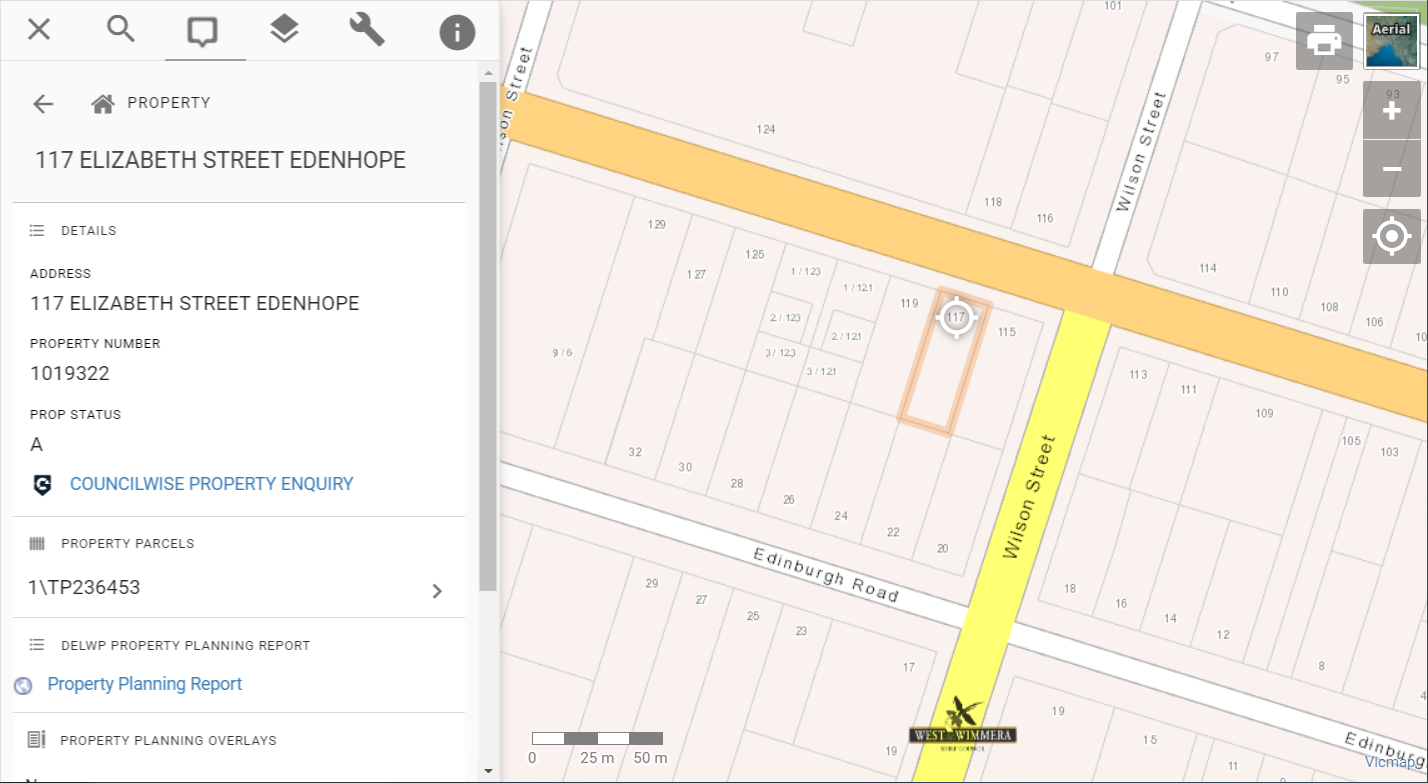
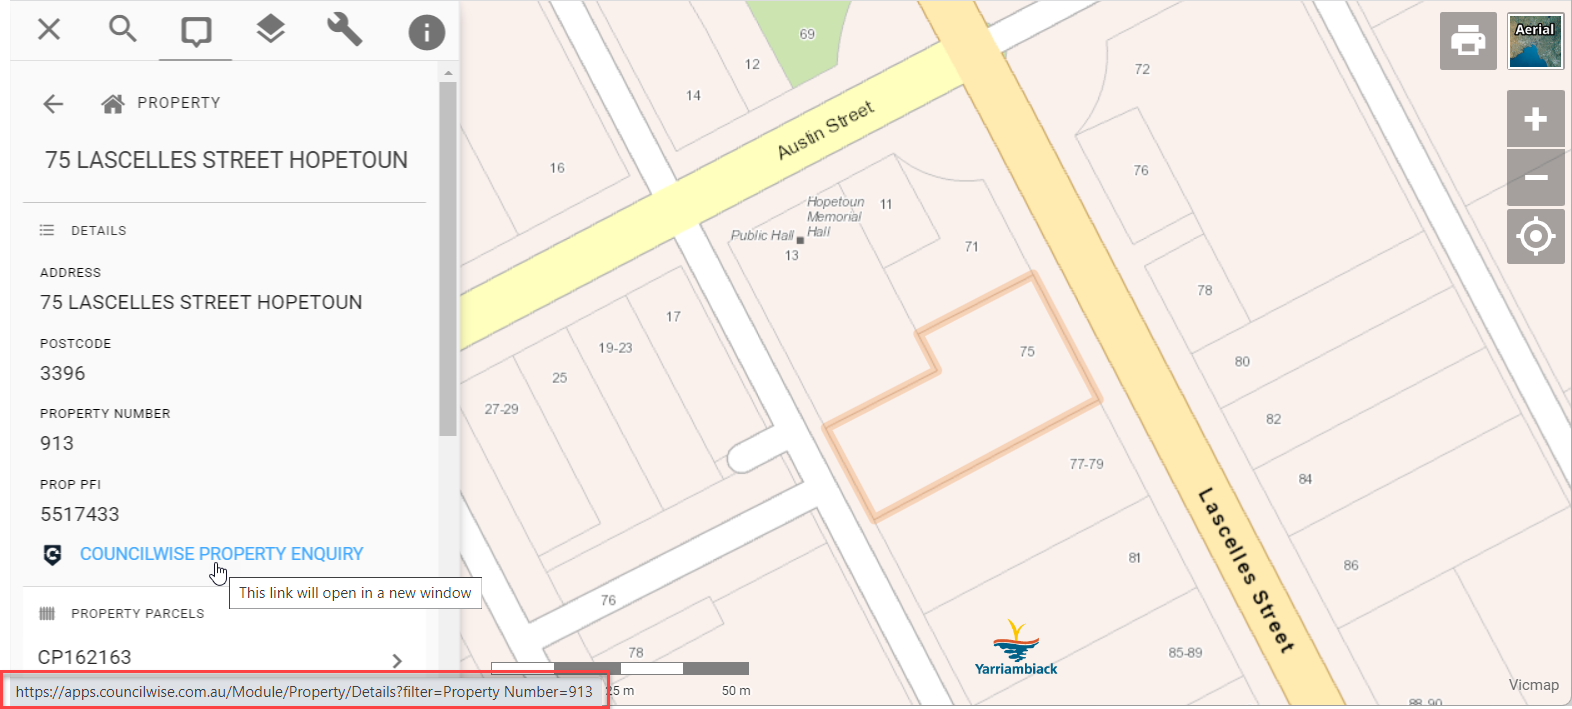
Various changes

diff --git a/roadmap.md b/roadmap.md
@@ -24,7 +24,7 @@ We also offer clients the opportunity to sponsor development of new features, gi
   - improve start-up performance by pre-generating map catalogues
   - tap into external data providers with minimal configuration
 - [ ] monthly analytics reports
-- [ ] fine-grained user permission control utlising Azure AD
+- [ ] fine-grained user permission control utilising Azure AD
 - [ ] display tables of selected features
 - [ ] interactive bulk spatial selection for ad-hoc layers
 - [ ] collaborate map annotations
@@ -46,6 +46,19 @@ We also offer clients the opportunity to sponsor development of new features, gi
 
 ## Completed
 
+### March 2023
+
+#### Improved
+
+- [x] 👍 display a loading spinner while waiting for What's Here results
+- [x] 👍 add favicon for Conquest links
+- [x] 👍 add favicon for Greenlight links
+
+#### Fixed
+
+- [x] 🪲 restore map to fullscreen after closing drawer on mobile
+- [x] 🪲 Jotform forms were sometimes not shown on initial click
+
 ### February 2023
 
 #### New
@@ -59,6 +72,7 @@ We also offer clients the opportunity to sponsor development of new features, gi
 - [x] 👍 remove "Nearby" layer when What's Here results are cleared
 - [x] 👍 hide Info panel from print/PDF output when there are no current results
 - [x] 👍 upgrade to OpenLayers 7.2.2 and latest versions of GeoStyler libraries
+- [x] 👍 improve Unified Search documentation
 
 #### Fixed
 

diff --git a/pozi-connect/m1s/spatial.md b/pozi-connect/m1s/spatial.md
@@ -5,6 +5,4 @@ sidebar_label: Spatial Output
 
 ## Find non-contiguous/fragmented properties.
 
-The new layer, called `Audit - Vicmap Property Address.TAB` contains a field called `cohesion`. Properties that are nice and rectangular have a cohesion value that is close to 1. Properties with a value close to 0 are likely to be fragmented and may require further attention.
-
-Open up the table in MapInfo, and sort by the cohesion field. Select the first record, and click Ctrl-A to locate it on the map. If a property is really fragmented, you may not even see it, because MapInfo will zoom to the middle where they may not be anything to see. You may have to zoom out or add the selection to the map window as its own layer and give it a really thick colourful border so you can find it.
+A layer called `Audit - Vicmap Property Address.TAB` contains a field called `cohesion`. Properties that are nice and rectangular have a cohesion value that is close to `1`. Properties with a value close to `0` are likely to be fragmented and may require further attention.

diff --git a/admin-guide/integrations/councilwise.md b/admin-guide/integrations/councilwise.md
@@ -1,7 +1,7 @@
 ---
 description: GIS integration for CouncilWise
 icon: dot
-tags: [Pozi Enterprise, Yarriambiack Shire Council, West Wimmera Shire Council]
+tags: [Pozi Enterprise, Yarriambiack Shire Council, West Wimmera Shire Council, Southern Grampians Shire Council]
 ---
 
 # CouncilWise
@@ -10,11 +10,15 @@ tags: [Pozi Enterprise, Yarriambiack Shire Council, West Wimmera Shire Council]
 
 Properties in Pozi are configured with a link that is dynamically populated with the property number.
 
-![](img/councilwise-linkout.png)
+![](img/councilwise-linkout.png){style="width:800px"}
 
 For example:
 
-https://apps.councilwise.com.au/Module/Property/Details?filter=Property%20Number=1019322
+https://apps.councilwise.com.au/Module/Property/Details?filter=Property%20Number=913
+
+## Link-In
+
+https://cwapp-help.helpdocs.com/properties/gis-integration
 
 ## Data API
 

diff --git a/pozi-connect/configuration.md b/pozi-connect/configuration.md
@@ -4,6 +4,20 @@ sidebar_label: Configuration
 sidebar_position: 2
 ---
 
+## Data Sources
+
+Database connection strings can be configured in any of these formats:
+
+* `ODBC:DSN=dsnname`
+* `ODBC:DRIVER={SQL Server};SERVER=servername;DATABASE=databasename`
+* `MSSQL:SERVER=servername;DATABASE=databasename`
+
+You can test your connection string using a command prompt running GDAL/OGR.
+
+```
+ogrinfo "MSSQL:SERVER=servername;DATABASE=databasename"
+```
+
 ## Running as a batch task
 
 To run multiple Pozi Connect tasks sequentially and avoid having to open up Pozi Connect and pick and run individual tasks, you can configure a 'recipe' for Pozi Connect to follow. This is useful if you have a series of tasks you regularly need to run (for example, M1s) or for setting up as a scheduled task.

diff --git a/pages/sla.md b/pages/sla.md
@@ -62,7 +62,7 @@ The following Service Provider(s) and Customer(s) will be used as the basis of t
 
 | **Severity Level** | **Description**                       | **Target Response** |
 | ------------------ | ------------------------------------- | ------------------- |
-| 1. Critical        | Service down                          | Within 2 hour       |
+| 1. Critical        | Service down                          | Within 2 hours      |
 | 2. Urgent          | Service affected, end-users impacted  | Within 4 hours      |
 | 3. Important       | Potential for impact if not addressed | Within 24 hours     |
 | 4. Informational   | Inquiry for information               | Within 48 hours     |

diff --git a/admin-guide/index.md b/admin-guide/index.md
@@ -24,6 +24,12 @@ Administrators control the following aspects of the Pozi experience:
 [!ref icon="tools" text="Issues with individual layers"](/admin-guide/qgis/configuring-layers#troubleshooting)
 [!ref icon="tools" text="Issues with projects/layer groups"](/admin-guide/qgis/managing-qgis-projects#troubleshooting)
 
+==- Issue with ALL internal layer groups
+
+If you are not able to view any layer groups from your internal sources, remote into the server on which Pozi Server is installed, go to Control Panel > Administrative Tools > Services > PoziConnectServer > right-click > Restart.
+
+==-
+
 ## Let Us Help You
 
 For other changes to the Pozi app experience, contact the Pozi Helpdesk:
